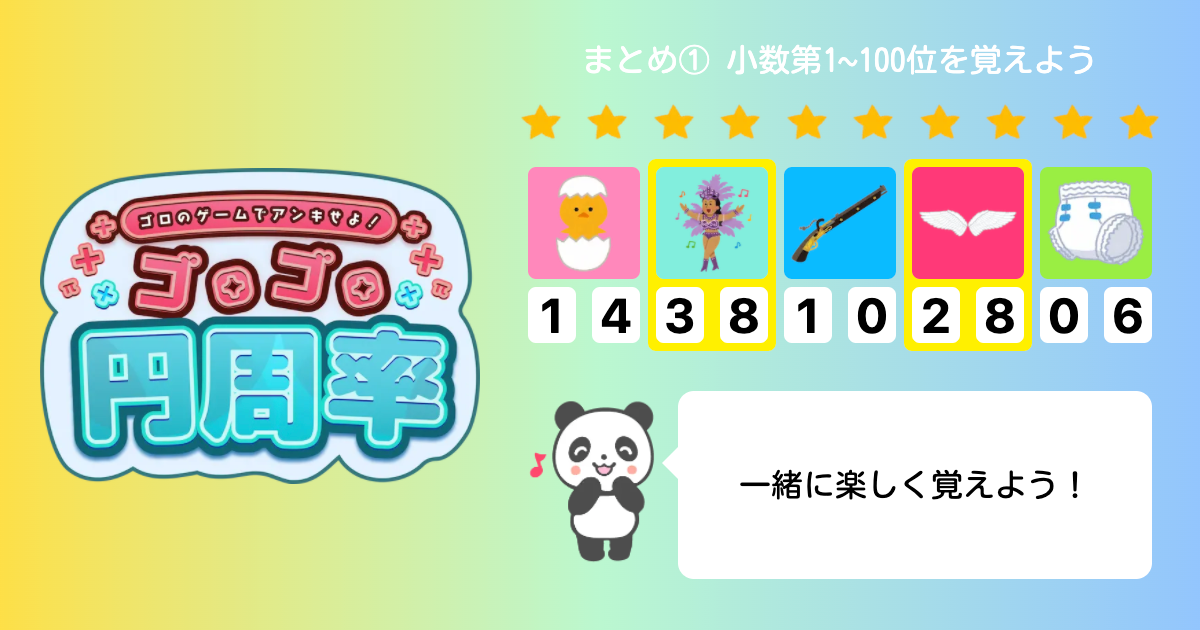
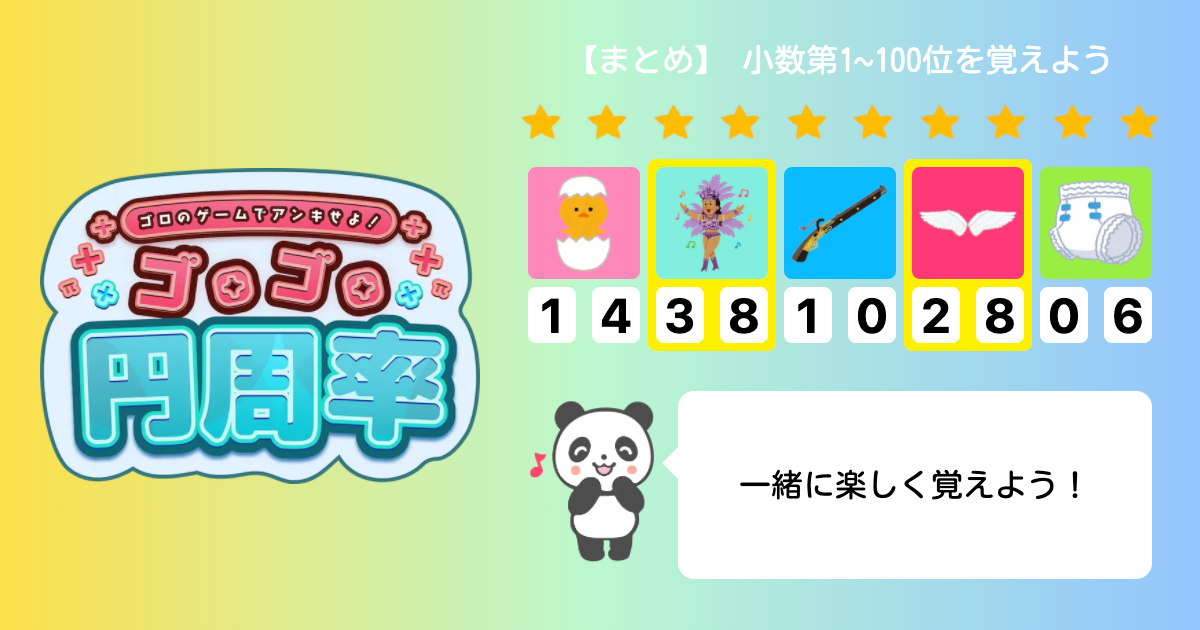
まとめページの表記からナンバリングを削除した

Changed region(s): [[0.4933, 0.0603, 0.925, 0.1206]]

diff --git a/src/components/stages/Modal.tsx b/src/components/stages/Modal.tsx
@@ -123,11 +123,13 @@ const Modal = memo(function Modal({
     const stageName =
       stageType === STAGE.Normal ? 'ステージ' : 'まとめステージ';
     if (clearCount < 1) {
-      return `${heading}${stageName}${stageNumber}を初クリアしました！`;
+      return `${heading}${stageName}${
+        stageType === STAGE.Normal ? stageNumber : ''
+      }を初クリアしました！`;
     } else {
-      return `${heading}${stageName}${stageNumber}の習熟度が${
-        clearCount + 1
-      }にUPしました！`;
+      return `${heading}${stageName}${
+        stageType === STAGE.Normal ? stageNumber : ''
+      }の習熟度が${clearCount + 1}にUPしました！`;
     }
   }, [clearCount, stageNumber, stageType]);
 

diff --git a/src/components/stages/StageDescription.tsx b/src/components/stages/StageDescription.tsx
@@ -23,12 +23,12 @@ const StageDescription = ({ stageNumber, stageType }: Props) => {
         '10': '⑩',
       };
 
-      const stageName = stageType === STAGE.Normal ? 'ステージ' : 'まとめ';
+      const stageName = stageType === STAGE.Normal ? 'ステージ' : '【まとめ】';
 
       return (
         <div>
           {stageName}
-          {circledNumbers[stageNumber]}
+          {stageType === STAGE.Normal ? circledNumbers[stageNumber] : ''}
         </div>
       );
     },

diff --git a/src/pages/reviews/[review].tsx b/src/pages/reviews/[review].tsx
@@ -578,10 +578,10 @@ const Stage = ({
   return (
     <>
       <NextSeo
-        title={`${Site.title} | まとめステージ${stageNumber}`}
+        title={`${Site.title} | まとめ`}
         openGraph={{
           url: `${Site.origin}${router.asPath}`,
-          title: `${Site.title} | まとめステージ${stageNumber}`,
+          title: `${Site.title} | まとめ`,
           description: Site.description,
           images: [
             {
